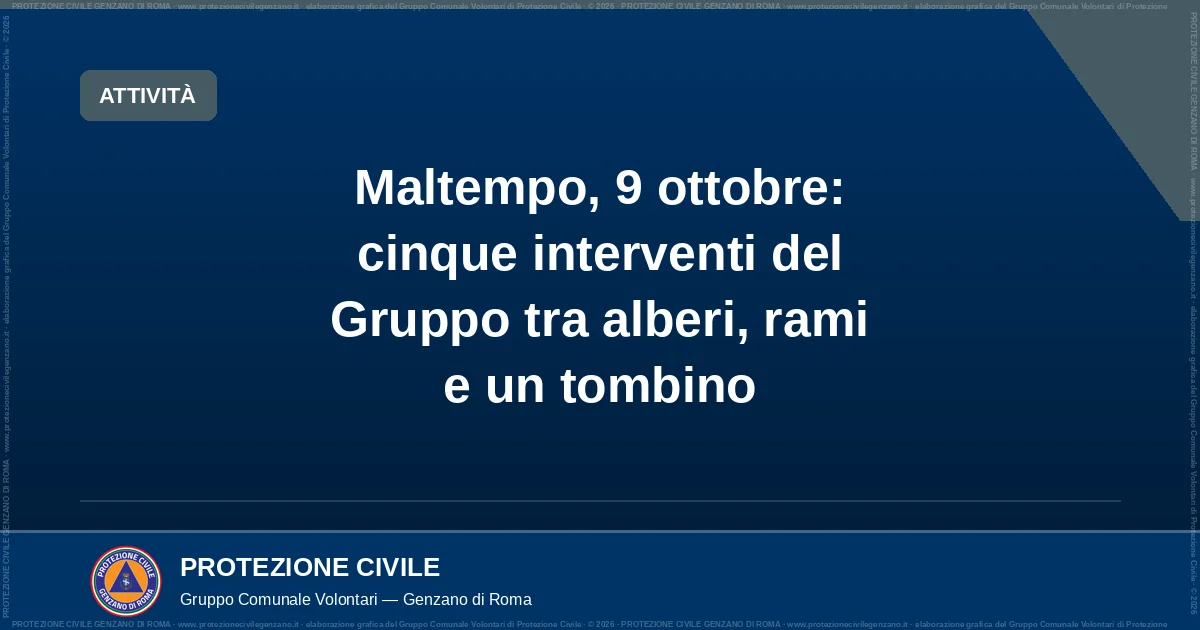
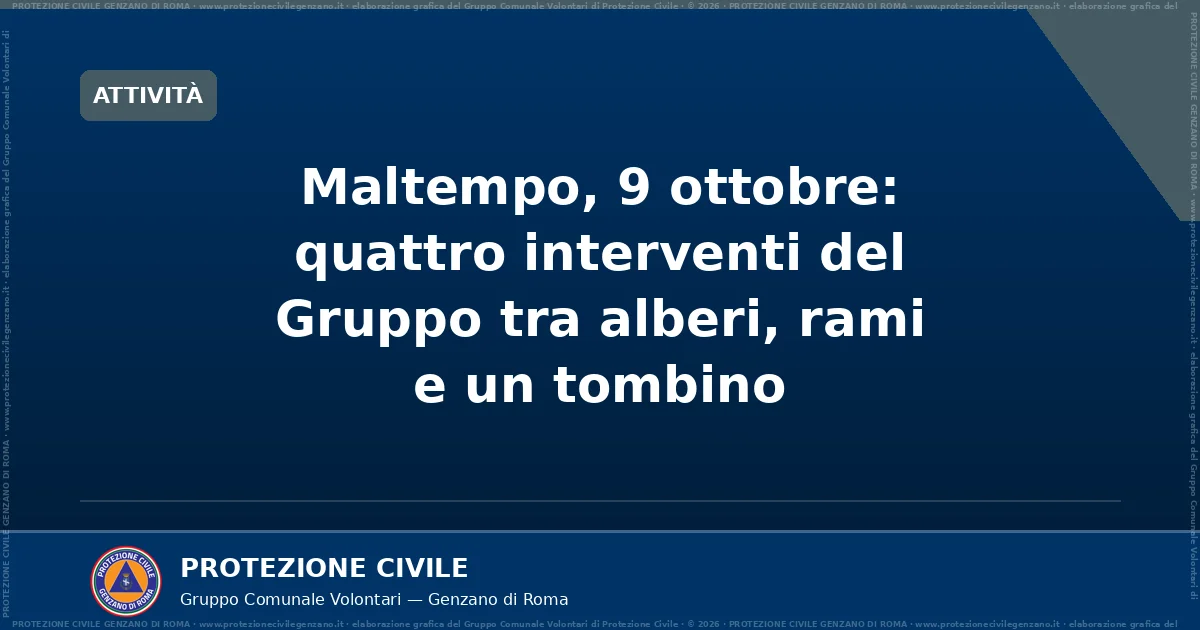
Interventi: dati al 9 ottobre ed esclusione delle bozze (#1333)
Aggiorna gli aggregati a 204 rapporti approvati, ultimo 205/2026. Esclude il 206 in bozza e le sue presenze. Corregge articolo e copertina del 9 ottobre e precisa la regola in bacheca.

diff --git a/COORDINAMENTO.md b/COORDINAMENTO.md
@@ -107,7 +107,7 @@ Lavori che una sessione (o Alessandro) chiede all'altra. Alessandro avvisa la se
     - prima data uguale o precedente ma l'export si ferma prima di `periodo.ultimo_numero` → è un export vecchio o incompleto: **fermati e chiedi ad Alessandro** un export più recente; non lanciare nessuno script, cancellerebbe gli interventi successivi.
     - prima data successiva → **parziale**: prima `python3 scripts/aggiorna-open-data-delta.py /tmp/<file>.xlsx --dry-run`, poi senza `--dry-run`. Mai il generatore su un export parziale: cancellerebbe i mesi precedenti.
     - Serve `pip install openpyxl`. Se lo script delta si ferma chiedendo `--volontari-nuovi N`: **fermati e chiedi ad Alessandro** quante persone sono nuove nel Gruppo; non stimare.
-  - **1-bis. Interventi in Bozza e numeri mancanti** (regola di Alessandro dell'11/10/2026): gli interventi con stato **Bozza** non si pubblicano mai, perché possono ancora cambiare. Lavora su una copia del file senza quelle righe: se la bozza è l'ultimo numero, l'ultimo pubblicato resta il precedente e la bozza entra col prossimo export, una volta chiusa; se la bozza sta in mezzo a interventi chiusi, **fermati e chiedi**, perché il prossimo aggiornamento la salterebbe. Se nella numerazione manca un numero, chiedi ad Alessandro se è stato annullato prima di procedere.
+  - **1-bis. Interventi in Bozza e numeri mancanti** (regola di Alessandro dell'11/10/2026): gli interventi con stato **Bozza** non si pubblicano mai, perché possono ancora cambiare. Lavora su una copia del file senza quelle righe: se la bozza è l'ultimo numero, l'ultimo pubblicato resta il precedente e la bozza entra col prossimo export, una volta chiusa; se la bozza sta in mezzo a interventi chiusi, **fermati e chiedi**, perché il prossimo aggiornamento la salterebbe. Se nella numerazione manca un numero, chiedi ad Alessandro se è stato annullato prima di procedere. Nella copia riallinea anche gli aggregati dei volontari: il foglio «Interventi membri» può includere le presenze delle bozze, che vanno escluse dai conteggi pubblicati. Le bozze non entrano nemmeno negli articoli, nelle cover e nelle sintesi social.
   - **2. Controlla l'esito**: i file cambiati devono essere solo in `static/open-data/` (statistiche, tipologie, automezzi, volontari; CSV e JSON). Nessun nome, nessun indirizzo, nessun richiedente nei file: se ne vedi uno, fermati.
   - **3. Articoli**: per ogni **giornata di intervento non ancora raccontata** sul sito (cerca in `content/comunicazioni/` per data e argomento; non duplicare quelle già coperte, per esempio il 05/10 e il 06/10 hanno già un articolo), scrivi un articolo `content/comunicazioni/AAAA-MM-GG-<slug>.md` **retrodatato** alla data dell'intervento, con badge `Attività` (o `Aggiornamento` per un maltempo concluso). Regole: `AGENTS.md` § 3.4, § 3.5 e § 5.1; **orari arrotondati** («verso le 18»), **niente nomi, targhe, indirizzi privati o richiedenti**; vie e quartieri solo se servono a capire; il nome dei mezzi preso da `content/chi-siamo/_index.md` § «Mezzi e attrezzature principali»; se usi la stampa locale, solo fatti parafrasati e testate in fondo («Per approfondire»). Cover: `python3 scripts/genera-cover.py <file>` e poi `image:`/`image_alt:`. Interventi piccoli e simili della stessa giornata in un solo articolo; giornate senza nulla di raccontabile (solo servizi interni) si saltano e lo scrivi nella PR. Se nella stessa giornata esistono già altri articoli, usa il formato data con l'orario (`AGENTS.md` § 5.1): guarda gli orari già usati quel giorno e prendi il **primo minuto libero dopo il più alto** (se il 08/10 ha 00:01, 00:02 e 00:03, il nuovo va a `T00:04:00+02:00`); se l'articolo esistente ha la data semplice, portalo a `T00:01:00+02:00` e il nuovo a `T00:02:00+02:00`. Mai due articoli con lo stesso orario nello stesso giorno.
   - **4. Controlli**: `hugo --minify` senza errori, `python3 scripts/check-refusi.py <articoli>`, `python3 scripts/check-data-uscita.py`; poi i controlli della PR (`validate-pr.yml`, `pa11y-ci.yml`) verdi.
@@ -132,6 +132,8 @@ Formato per una richiesta di immagine:
 
 
 ## Avvisi
+
+- **11/10/2026 — Aggiornamento interventi, fatto da ChatGPT, PR #1333.** Export cumulativo verificato: 204 rapporti approvati dal 04/04 al 09/10/2026, ultimo 205/2026, 26 aggiunti. Il 191/2026 è annullato (confermato da Alessandro); il 206/2026 resta escluso perché in Bozza, insieme alle sue tre presenze nei totali dei volontari. Originale invariato e XLSX fuori dal repository. Le giornate 7–9 ottobre erano già raccontate: corretto l'articolo del 9 da cinque a quattro interventi, tolta la bozza anche da cover e sintesi social. Regola sulle bozze precisata al punto 1-bis. Build, refusi, date, JSON-LD e verifica visiva della cover eseguiti; merge subordinato ai controlli della PR.
 
 - **11/10/2026 — Claude.** Scheda satellite del cruscotto ampliata (shortcode `dashboard-satellite.html`, script `genera-copernicus-sentinel{1,2,3}.py`, `immagini-meteo-release.py`, workflow `aggiorna-copernicus-sentinel3.yml`): livelli tematici NASA, indici Sentinel-2 con mappa dei cambiamenti, mappa dei cambiamenti radar a parità di orbita, qualità dell'acqua dei laghi. Chi tocca quei file o la release `immagini-meteo` lo faccia dopo questa PR: i nomi degli allegati della release ora li elencano i JSON in `static/open-data/`.
 

diff --git a/content/comunicazioni/2026-10-09-maltempo-genzano-interventi-9-ottobre.md b/content/comunicazioni/2026-10-09-maltempo-genzano-interventi-9-ottobre.md
@@ -1,43 +1,40 @@
 ---
-title: "Maltempo, 9 ottobre: cinque interventi del Gruppo tra alberi, rami e un tombino"
+title: "Maltempo, 9 ottobre: quattro interventi del Gruppo tra alberi, rami e un tombino"
 date: 2026-10-09T00:03:00+02:00
-description: "Venerdì 9 ottobre il Gruppo è intervenuto cinque volte a Genzano: pino alla scuola Marchesi, rami in strada, tombino divelto e albero caduto in via Polonia."
+description: "Il 9 ottobre quattro interventi approvati a Genzano: un pino alla scuola Marchesi, rami sulle strade e un tombino divelto."
 badge: "Attività"
 priorita: "normale"
 autore: "Gruppo Comunale Volontari PC Genzano"
 image: "/images/2026-10-09-maltempo-genzano-interventi-9-ottobre.webp"
-image_alt: "Cover dell'articolo: Maltempo, 9 ottobre: cinque interventi del Gruppo tra alberi, rami e un tombino"
+image_alt: "Cover dell'articolo: Maltempo, 9 ottobre: quattro interventi del Gruppo tra alberi, rami e un tombino"
 scadenza: ""
 area: "Genzano di Roma"
 allegati: []
 draft: false
 tts: true
 lis_section: "allerte-meteo"
-social_citazione: "Il lavoro più lungo è stato in via Polonia: un albero caduto, dal pomeriggio fino a sera."
+social_citazione: "Il 9 ottobre il registro riporta quattro interventi approvati, tra alberi, rami e un tombino divelto."
 social_punti:
-  - "Cinque interventi del Gruppo venerdì 9 ottobre, dopo i ventidue tra il 7 e l'8."
+  - "Quattro interventi del Gruppo venerdì 9 ottobre, dopo i ventidue tra il 7 e l'8."
   - "Un pino alla scuola Marchesi e un grosso ramo in via Unione Sovietica, al cavalcavia per Nemi."
   - "Un tombino divelto in via Garibaldi e rami sulla strada in via Roma."
-  - "In via Polonia un albero caduto: la squadra ha lavorato dalle 16 fin quasi alle 20."
 ---
 
-Tra il 7 e l'8 ottobre il Gruppo ha fatto ventidue interventi. Il maltempo ci ha tenuti impegnati anche **venerdì 9 ottobre**. Secondo il nostro registro, le uscite della giornata sono state **cinque**, quasi tutte per alberi e rami.
+Tra il 7 e l'8 ottobre il Gruppo ha fatto ventidue interventi. Il maltempo ci ha tenuti impegnati anche **venerdì 9 ottobre**. Il registro riporta **quattro interventi approvati**, quasi tutti per alberi e rami.
 
 Genzano è nella Zona F del Centro Funzionale della Regione Lazio. Il livello di allerta in vigore è sempre nella pagina [Allerte meteo](/allerte-meteo/).
 
 ## La mattina
 
-Poco dopo le 8.30 il sindaco ci ha chiesto di intervenire su un **pino alla scuola Marchesi**. Si trattava di verificare la pianta e, se necessario, di tagliarla. La squadra è rimasta impegnata per circa due ore.
+Poco dopo le 8.30 la squadra è intervenuta su un **pino alla scuola Marchesi**. Si trattava di verificare la pianta e, se necessario, di tagliarla. La squadra è rimasta impegnata per circa due ore.
 
-Negli stessi minuti la Polizia Locale ci ha segnalato un **grosso ramo a terra** in via Unione Sovietica. Era all'altezza del cavalcavia per Ville di Nemi. Anche qui la squadra è rimasta impegnata fino alle 10.30 circa, con il pickup del Gruppo.
+Negli stessi minuti un altro intervento ha riguardato un **grosso ramo** in via Unione Sovietica. Era all'altezza del cavalcavia per Ville di Nemi. Anche qui la squadra è rimasta impegnata fino alle 10.30 circa, con il pickup del Gruppo.
 
 Verso mezzogiorno un breve intervento ha riguardato un **tombino divelto** in via Garibaldi.
 
 ## Il pomeriggio
 
-Verso le 15, su richiesta del Comune, i volontari hanno rimosso dei **rami dalla carreggiata** in via Roma.
-
-Poco dopo le 16 la Polizia Locale ci ha segnalato un **albero caduto** in via Polonia. È stato l'intervento più lungo della giornata: la squadra ha lavorato fin quasi alle 20.
+Verso le 15 la squadra è intervenuta per dei **rami sulla carreggiata** in via Roma.
 
 ## Cosa puoi fare tu
 
